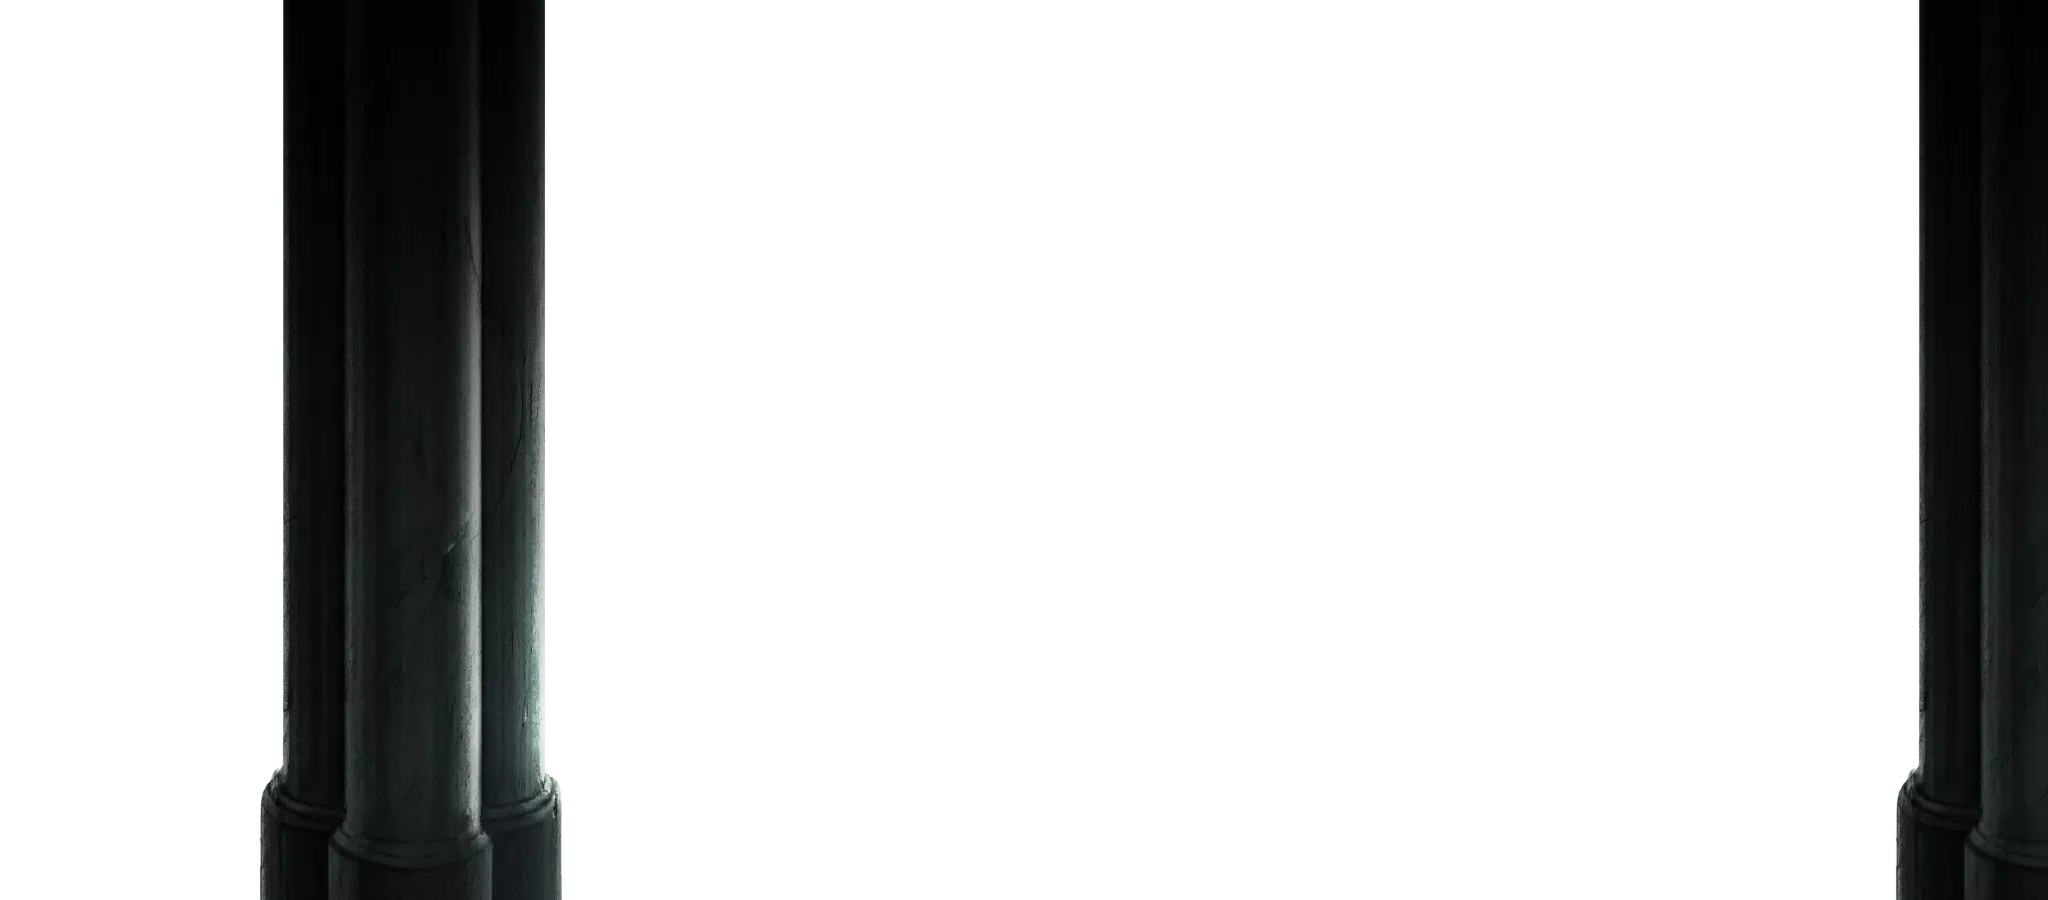
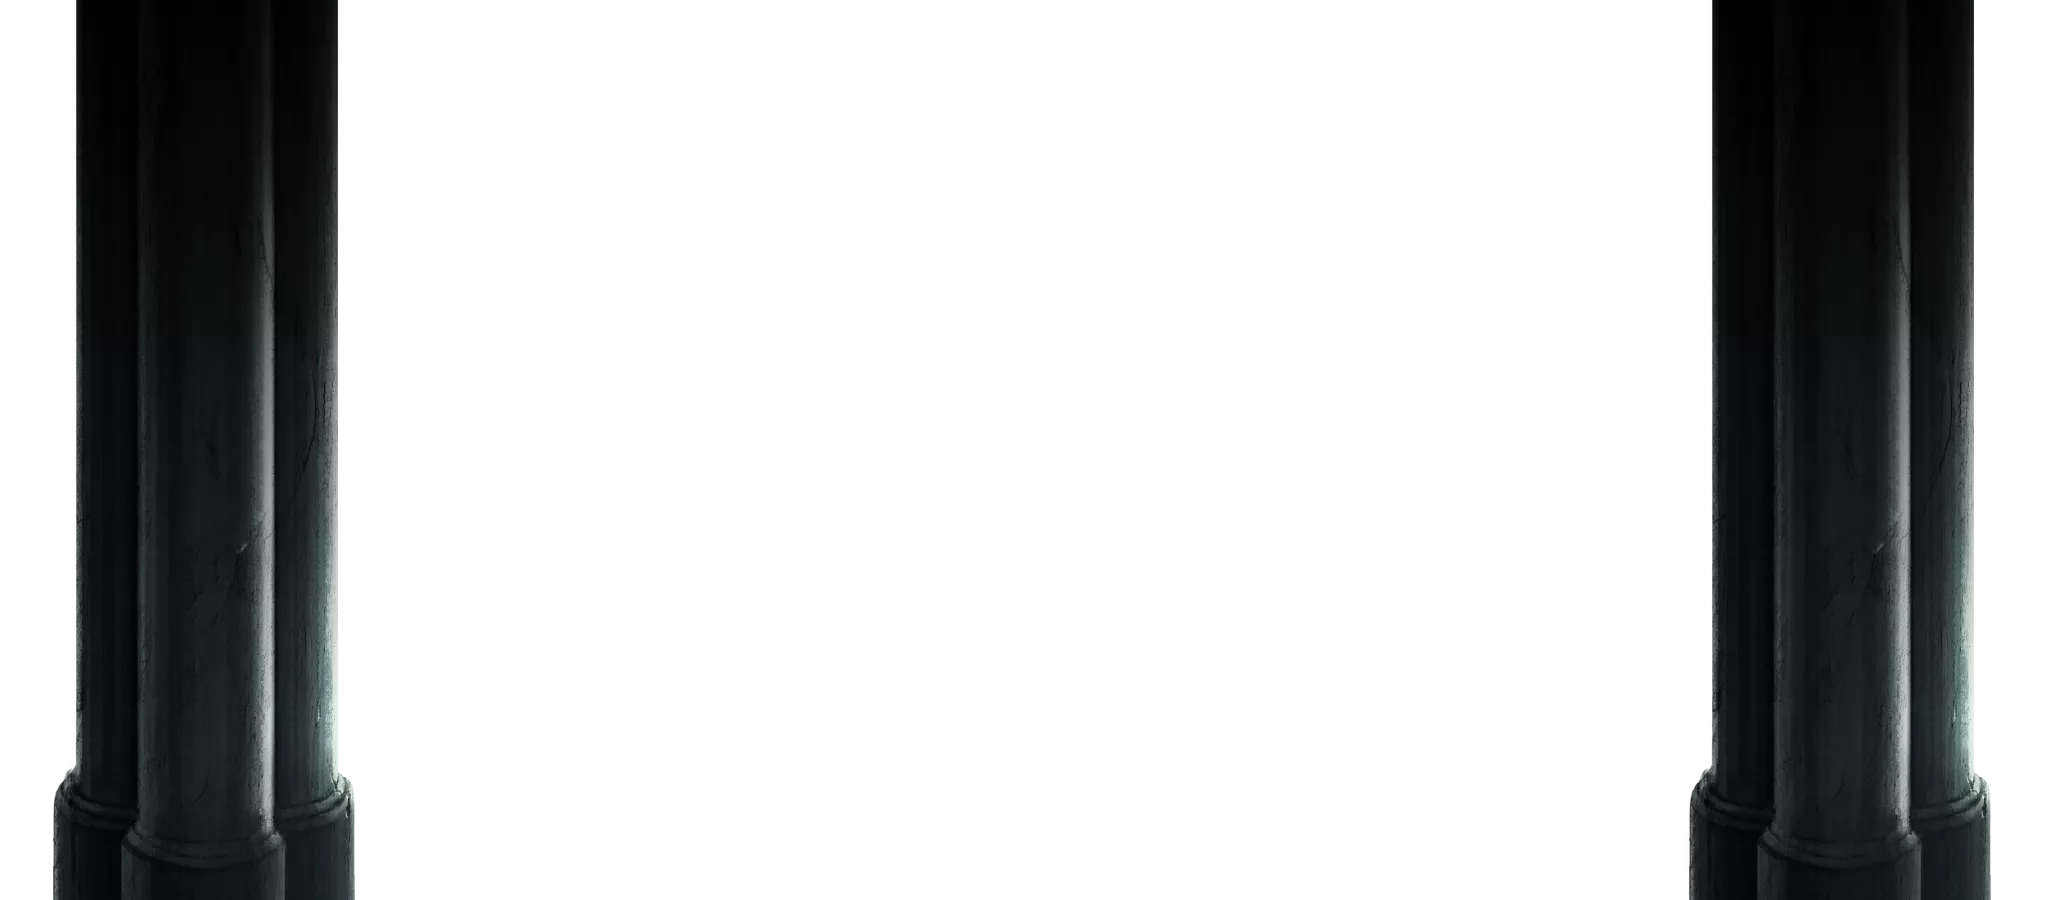
removed foreground images, removed links from attack area popups

diff --git a/public/character-encounter.html b/public/character-encounter.html
@@ -15,7 +15,7 @@
     <link rel="stylesheet" type="text/css" href="styles/styles.css">
 </head>
 <body class="encounter-screen">
-    <div class="foreground"></div>
+    <!-- <div class="foreground"></div> -->
     <div class="page-wrapper">
         <div class="character-info-grid">
                 <div class="player-avatar">
@@ -82,27 +82,21 @@
 
            <div class="enemy-character">
                 <div class="attack-area-popups">
-                    <a href="#" class="attack-head" data-target="body">
-                        <div>
-                            <h4>Head</h4>
-                            <p class="attack-info">Low Defense</p>
-                            <p class="attack-info">High Evasion</p>
-                        </div>
-                    </a>
-                    <a href="#" class="attack-body" data-target="body">
-                        <div>
-                            <h4>Body</h4>
-                            <p class="attack-info">High Defense</p>
-                            <p class="attack-info">Low Evasion</p>
-                        </div>
-                    </a>
-                    <a href="#" class="attack-legs" data-target="body">
-                        <div>
-                            <h4>Legs</h4>
-                            <p class="attack-info">Low Defense</p>
-                            <p class="attack-info">High Evasion</p>
-                        </div>
-                    </a>
+                    <div class="attack-head" data-target="body">
+                        <h4>Head</h4>
+                        <p class="attack-info">Low Defense</p>
+                        <p class="attack-info">High Evasion</p>
+                    </div>
+                    <div class="attack-body" data-target="body">
+                        <h4>Body</h4>
+                        <p class="attack-info">High Defense</p>
+                        <p class="attack-info">Low Evasion</p>
+                    </div>
+                    <div class="attack-legs" data-target="body">
+                        <h4>Legs</h4>
+                        <p class="attack-info">Low Defense</p>
+                        <p class="attack-info">High Evasion</p>
+                    </div>
                 </div>
                 <svg class="enemy-sprite" xmlns="http://www.w3.org/2000/svg" xmlns:xlink="http://www.w3.org/1999/xlink" viewBox="0 0 169 179.19">
                     <defs>

diff --git a/public/styles/styles.css b/public/styles/styles.css
@@ -94,10 +94,6 @@ body {
   margin: 0 3px;
 }
 
-.character-container:hover {
-  cursor: pointer;
-}
-
 .character-container img {
   height: 75px;
 }
@@ -292,17 +288,8 @@ a:hover{
 */
 
 body.encounter-screen {
-  background: url(../images/resource-images/encounter/bg-castle.jpg) no-repeat top #14150f;
+  background: url(../images/resource-images/encounter/bg-plains.jpg) no-repeat top #14150f;
   background-size: contain;
-}
-
-.foreground {
-  background: url(../images/resource-images/encounter/fg-castle.png) no-repeat bottom transparent;
-  background-size: contain;
-  position: fixed;
-  z-index: 1000;
-  width: 100%;
-  height: 43.98vw;
 }
 
 .page-wrapper {
@@ -329,7 +316,7 @@ body.encounter-screen {
   z-index: 10;
 }
 
-.enemy-sprite:hover {
+svg.enemy-sprite:hover {
   cursor: pointer;
 }
 
@@ -414,7 +401,6 @@ body.encounter-screen {
 
 .player-action-grid img:hover {
   filter: drop-shadow(0 0 .66vw #fecc) drop-shadow(0 0 0.33vw #fecc);
-  cursor: pointer;
 }
 
 .player-character {
@@ -501,6 +487,8 @@ body.encounter-screen {
   display: grid;
   grid-template-columns: auto repeat(3, 2fr) auto;
   background-image: linear-gradient(180deg, #000a, transparent);
+  position: relative;
+  z-index: 1000;
 }
 
 .player-avatar img, .enemy-avatar img {
